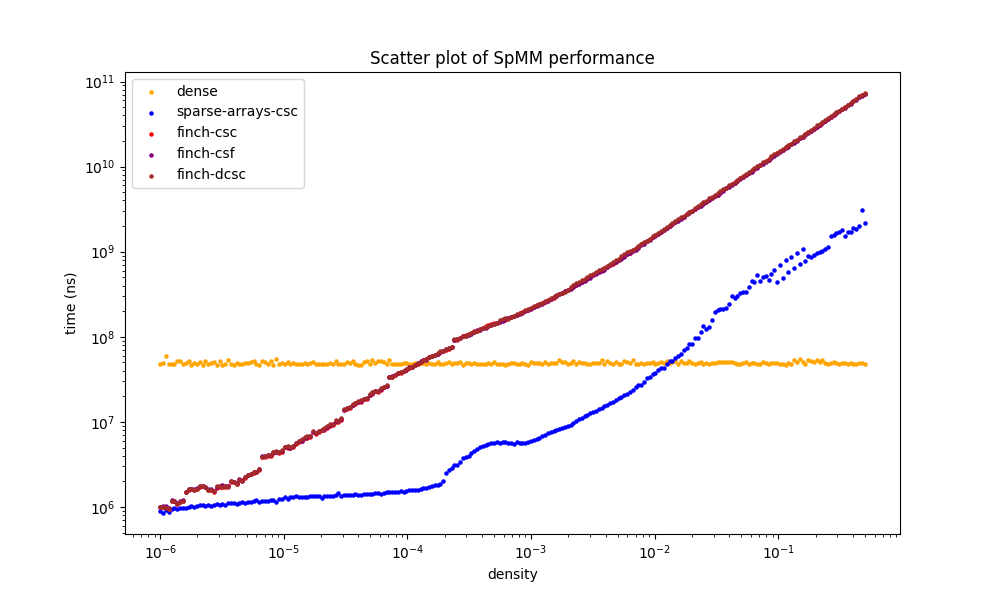
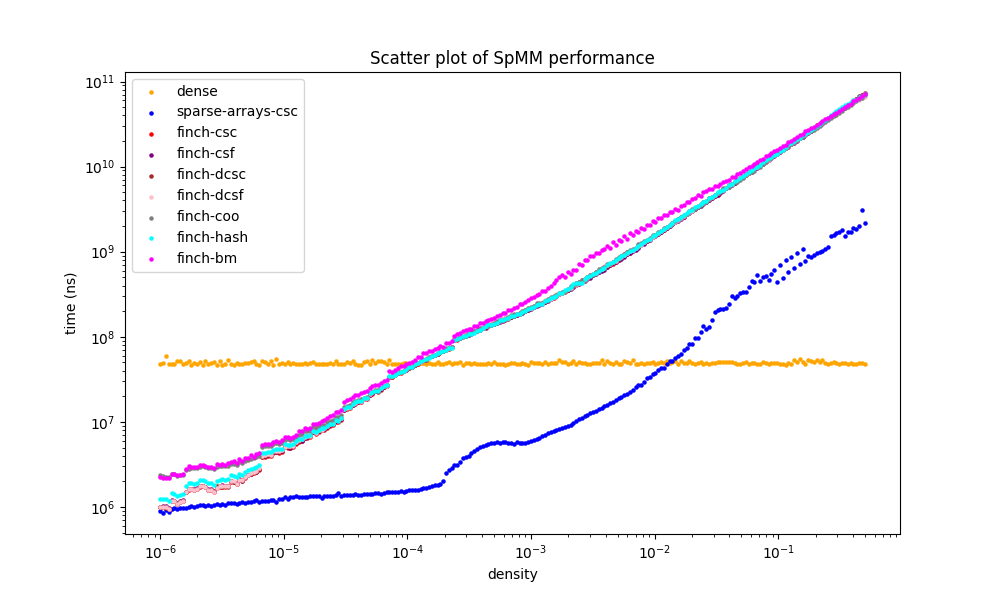
Update initial plot with all values

Changed region(s): [[0.341, 0.15, 0.868, 0.69], [0.155, 0.69, 0.341, 0.87], [0.155, 0.3, 0.248, 0.45]]

diff --git a/src/spmm-plot.py b/src/spmm-plot.py
@@ -43,32 +43,32 @@ den_fin_dcsc = [pair[0] for pair in pairs_fin_dcsc]
 time_fin_dcsc = [pair[1] for pair in pairs_fin_dcsc]
 
 
-# with open("res/0929/finch-dcsf.json", "r") as f:
-#     pairs_fin_dcsf = json.load(f)
+with open("res/0929/finch-dcsf.json", "r") as f:
+    pairs_fin_dcsf = json.load(f)
 
-# den_fin_dcsf = [pair[0] for pair in pairs_fin_dcsf]
-# time_fin_dcsf = [pair[1] for pair in pairs_fin_dcsf]
+den_fin_dcsf = [pair[0] for pair in pairs_fin_dcsf]
+time_fin_dcsf = [pair[1] for pair in pairs_fin_dcsf]
                  
 
-# with open("res/0929/finch-coo.json", "r") as f:
-#     pairs_fin_coo = json.load(f)
+with open("res/0929/finch-coo.json", "r") as f:
+    pairs_fin_coo = json.load(f)
 
-# den_fin_coo = [pair[0] for pair in pairs_fin_coo]
-# time_fin_coo = [pair[1] for pair in pairs_fin_coo]
-
-
-# with open("res/0929/finch-hash.json", "r") as f:
-#     pairs_fin_hash = json.load(f)
-
-# den_fin_hash = [pair[0] for pair in pairs_fin_hash]
-# time_fin_hash = [pair[1] for pair in pairs_fin_hash]
+den_fin_coo = [pair[0] for pair in pairs_fin_coo]
+time_fin_coo = [pair[1] for pair in pairs_fin_coo]
 
 
-# with open("res/0929/finch-bm.json", "r") as f:
-#     pairs_fin_bm = json.load(f)
+with open("res/0929/finch-hash.json", "r") as f:
+    pairs_fin_hash = json.load(f)
 
-# den_fin_bm = [pair[0] for pair in pairs_fin_bm]
-# time_fin_bm = [pair[1] for pair in pairs_fin_bm]
+den_fin_hash = [pair[0] for pair in pairs_fin_hash]
+time_fin_hash = [pair[1] for pair in pairs_fin_hash]
+
+
+with open("res/0929/finch-bm.json", "r") as f:
+    pairs_fin_bm = json.load(f)
+
+den_fin_bm = [pair[0] for pair in pairs_fin_bm]
+time_fin_bm = [pair[1] for pair in pairs_fin_bm]
 
 
 
@@ -111,10 +111,10 @@ plt.scatter(den_sa_csc, time_sa_csc, s=5, label='sparse-arrays-csc', color='blue
 plt.scatter(den_fin_csc, time_fin_csc, s=5, label='finch-csc', color='red')
 plt.scatter(den_fin_csf, time_fin_csf, s=5, label='finch-csf', color='purple')
 plt.scatter(den_fin_dcsc, time_fin_dcsc, s=5, label='finch-dcsc', color='brown')
-# plt.scatter(den_fin_dcsf, time_fin_dcsf, s=5, label='finch-dcsf', color='pink')
-# plt.scatter(den_fin_coo, time_fin_coo, s=5, label='finch-coo', color='gray')
-# plt.scatter(den_fin_hash, time_fin_hash, s=5, label='finch-hash', color='cyan')
-# plt.scatter(den_fin_bm, time_fin_bm, s=5, label='finch-bm', color='magenta')
+plt.scatter(den_fin_dcsf, time_fin_dcsf, s=5, label='finch-dcsf', color='pink')
+plt.scatter(den_fin_coo, time_fin_coo, s=5, label='finch-coo', color='gray')
+plt.scatter(den_fin_hash, time_fin_hash, s=5, label='finch-hash', color='cyan')
+plt.scatter(den_fin_bm, time_fin_bm, s=5, label='finch-bm', color='magenta')
 
 plt.legend()
 plt.xlabel('density')
